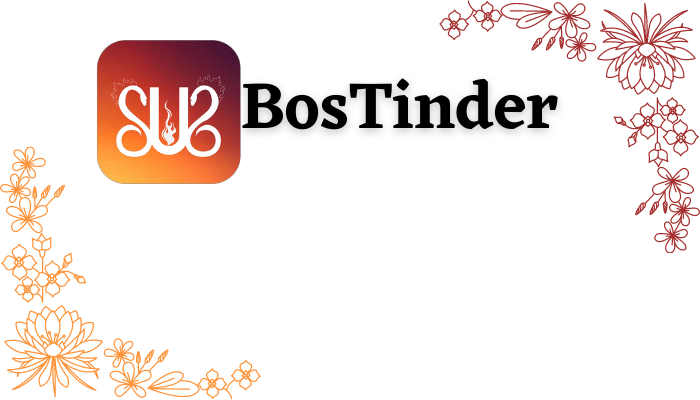
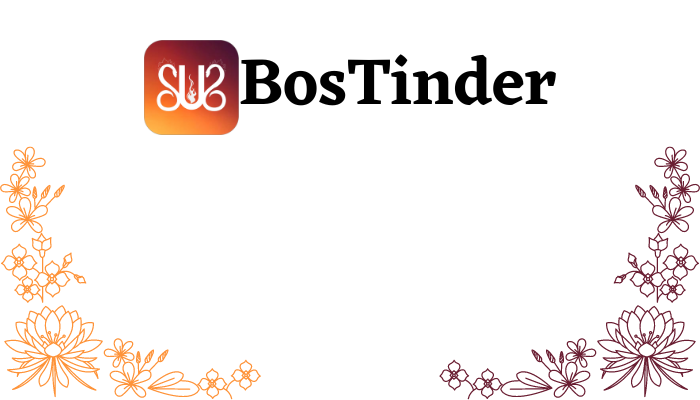
Nuevo fondo

Changed region(s): [[0.12, 0.09, 0.81, 0.48], [0.63, 0.0, 1.0, 1.0], [0.3, 0.09, 0.33, 0.12]]

diff --git a/PRF_PGR1_202202_VelozaJuan_RiañoFerddy_BullaDaniel_QuintanaSebastian/src/co/edu/unbosque/view/VentanaInicial.java b/PRF_PGR1_202202_VelozaJuan_RiañoFerddy_BullaDaniel_QuintanaSebastian/src/co/edu/unbosque/view/VentanaInicial.java
@@ -30,13 +30,13 @@ public class VentanaInicial  extends JFrame{
 		ImageIcon icono1 = new ImageIcon(imag1.getImage().getScaledInstance(260, 50, Image.SCALE_DEFAULT));
 		iniciar.setIcon(icono1);
 		iniciar.setActionCommand(INICIAR);
-		iniciar.setBounds(260, 220, 260, 50);
+		iniciar.setBounds(220, 190, 260, 50);
 		registrarse = new JButton();
 		ImageIcon imag2 = new ImageIcon(getClass().getResource("/Imagenes/1.png"));
 		ImageIcon icono2 = new ImageIcon(imag2.getImage().getScaledInstance(260, 50, Image.SCALE_DEFAULT));
 		registrarse.setIcon(icono2);
 		registrarse.setActionCommand(REGISTRAR);
-		registrarse.setBounds(260, 290, 260, 50);
+		registrarse.setBounds(220, 260, 260, 50);
 		fondo = new JLabel();
 		ImageIcon imag3 = new ImageIcon(getClass().getResource("/Imagenes/Fondo.png"));
 		ImageIcon icono3 = new ImageIcon(imag3.getImage().getScaledInstance(700, 400, Image.SCALE_DEFAULT));
